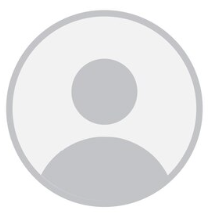
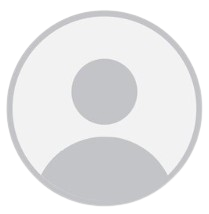
Feat: Voice Msg Play&Stop

diff --git a/src/screens/Chat/ChatRoomScreen.tsx b/src/screens/Chat/ChatRoomScreen.tsx
@@ -103,6 +103,8 @@ export default function ChatRoomScreen() {
   const [isUploading, setIsUploading] = useState(false);
   const [playingVoice, setPlayingVoice] = useState<string | null>(null); // Track which voice is playing
   const [sound, setSound] = useState<Audio.Sound | null>(null); // Current sound instance
+  const [voiceDurations, setVoiceDurations] = useState<Record<string, number>>({}); // Cache duration for each voice message
+  const [playbackPosition, setPlaybackPosition] = useState(0); // Current playback position in milliseconds
 
   // Wrap loadMessages in useCallback to prevent closure issues
   const loadMessages = useCallback(async (loadMore = false, showLoading = true) => {
@@ -210,13 +212,33 @@ export default function ChatRoomScreen() {
               }
               // For type 2 (voice), ensure full URL
               else if (messageType === 2) {
+                console.log('🎤 [Voice Parse] parsedMessage:', parsedMessage);
+                console.log('🎤 [Voice Parse] parsedMessage.message type:', typeof parsedMessage.message);
+                console.log('🎤 [Voice Parse] parsedMessage.message value:', parsedMessage.message);
+
                 if (typeof parsedMessage === 'string') {
                   voiceUrl = ensureFullImageUrl(parsedMessage);
                   messageText = '[语音消息]';
                 } else if (parsedMessage.message) {
-                  voiceUrl = ensureFullImageUrl(String(parsedMessage.message));
-                  messageText = '[语音消息]';
+                  // ✅ Check if it's an error object from backend
+                  if (typeof parsedMessage.message === 'object' && parsedMessage.message.error === true) {
+                    console.log('⚠ [Voice Parse] Backend error - Invalid file format, skipping');
+                    voiceUrl = ''; // Empty URL to skip this message
+                    messageText = '[语音上传失败]';
+                  }
+                  // Check if parsedMessage.message is an object with uri property
+                  else if (typeof parsedMessage.message === 'object' && parsedMessage.message.uri) {
+                    voiceUrl = ensureFullImageUrl(parsedMessage.message.uri);
+                    messageText = '[语音消息]';
+                  }
+                  // Normal string path
+                  else if (typeof parsedMessage.message === 'string') {
+                    voiceUrl = ensureFullImageUrl(parsedMessage.message);
+                    messageText = '[语音消息]';
+                  }
                 }
+
+                console.log('🎤 [Voice Parse] Final voiceUrl:', voiceUrl);
               }
               // For type 1 (text), extract text content
               else {
@@ -286,13 +308,13 @@ export default function ChatRoomScreen() {
     }, 10000);
 
     // Polling fallback: Check for new messages every 3 seconds (silent, no loading animation)
-    const pollingInterval = setInterval(() => {
-      loadMessages(false, false); // loadMore=false, showLoading=false
-    }, 3000);
+    // const pollingInterval = setInterval(() => {
+    //   loadMessages(false, false); // loadMore=false, showLoading=false
+    // }, 3000);
 
     return () => {
       clearInterval(connectionCheckInterval);
-      clearInterval(pollingInterval);
+      // clearInterval(pollingInterval);
     };
   }, [loadMessages]);
 
@@ -497,10 +519,120 @@ export default function ChatRoomScreen() {
     }
   };
 
+  // ✅ Voice playback functions (simplified version)
+
+  // Playback status update callback
+  const onPlaybackStatusUpdate = useCallback((status: any) => {
+    if (status.isLoaded) {
+      // Update playback position
+      setPlaybackPosition(status.positionMillis || 0);
+
+      // Get duration
+      if (status.durationMillis) {
+        const durationSeconds = Math.round(status.durationMillis / 1000);
+        // Update duration for the current playing voice
+        if (playingVoice) {
+          setVoiceDurations(prev => ({
+            ...prev,
+            [playingVoice]: durationSeconds
+          }));
+        }
+      }
+
+      // Playback finished
+      if (status.didJustFinish) {
+        setPlayingVoice(null);
+        setPlaybackPosition(0);
+        console.log('🎵 [Voice] Playback finished');
+      }
+    }
+  }, [playingVoice]);
+
+  // Play audio
+  const playAudio = useCallback(async (voiceUrl: string, messageId: string) => {
+    try {
+      console.log('🎵 [Voice] Playing audio:', voiceUrl);
+
+      // Stop current playback if any
+      if (sound) {
+        await sound.stopAsync();
+        await sound.unloadAsync();
+        setSound(null);
+        setPlayingVoice(null);
+      }
+
+      // Reset playback position
+      setPlaybackPosition(0);
+
+      // Set audio mode for playback
+      await Audio.setAudioModeAsync({
+        allowsRecordingIOS: false,
+        playsInSilentModeIOS: true,
+        staysActiveInBackground: false,
+        shouldDuckAndroid: true,
+        playThroughEarpieceAndroid: false,
+      });
+
+      // Create and play new sound
+      const { sound: newSound } = await Audio.Sound.createAsync(
+        { uri: voiceUrl },
+        { shouldPlay: true },
+        onPlaybackStatusUpdate
+      );
+
+      setSound(newSound);
+      setPlayingVoice(messageId);
+      console.log('▶ [Voice] Playing:', messageId);
+
+    } catch (error: any) {
+      console.error('❌ [Voice] Failed to play:', error);
+      Alert.alert('播放失败', '无法播放语音消息，请重试');
+      setPlayingVoice(null);
+    }
+  }, [sound, onPlaybackStatusUpdate]);
+
+  // Stop audio
+  const stopAudio = useCallback(async () => {
+    if (sound) {
+      try {
+        await sound.stopAsync();
+        await sound.unloadAsync();
+        setSound(null);
+        setPlayingVoice(null);
+        setPlaybackPosition(0);
+        console.log('⏹ [Voice] Stopped playback');
+      } catch (error) {
+        console.error('❌ [Voice] Failed to stop:', error);
+      }
+    }
+  }, [sound]);
+
+  // Helper function: Format time from milliseconds to MM:SS
+  const formatTime = useCallback((millis: number) => {
+    const totalSeconds = Math.floor(millis / 1000);
+    const minutes = Math.floor(totalSeconds / 60);
+    const seconds = totalSeconds % 60;
+    return `${minutes}:${seconds.toString().padStart(2, '0')}`;
+  }, []);
+
+  // Cleanup sound on unmount
+  useEffect(() => {
+    return () => {
+      if (sound) {
+        console.log('🧹 [Voice] Cleaning up sound on unmount');
+        sound.unloadAsync();
+      }
+    };
+  }, [sound]);
+
   const messages: DisplayMessage[] = storedMessages.map(msg => ({
     ...msg,
     sender: msg.senderId === currentUserId ? 'me' : 'other',
     senderName: msg.senderId === currentUserId ? currentUserName : (msg.name || chatName),
+    // ✅ Fix: Ensure voiceUrl is a string (handle legacy incorrect data)
+    voiceUrl: msg.voiceUrl && typeof msg.voiceUrl === 'object' && (msg.voiceUrl as any).message
+      ? String((msg.voiceUrl as any).message)
+      : msg.voiceUrl,
   }));
 
   useLayoutEffect(() => {
@@ -728,11 +860,43 @@ export default function ChatRoomScreen() {
           )}
 
           {/* Type 2: Voice Message */}
-          {item.type === 2 && (
+          {item.type === 2 && item.voiceUrl && (
             <View style={roomStyles.voiceMessageContainer}>
-              <Ionicons name="play-circle" size={24} color="#333" />
-              <Text style={roomStyles.voiceMessageText}>语音消息</Text>
+              <TouchableOpacity
+                onPress={() => {
+                  if (playingVoice === item.id) {
+                    stopAudio();
+                  } else {
+                    playAudio(item.voiceUrl!, item.id);
+                  }
+                }}
+                style={roomStyles.voicePlayButton}
+              >
+                <Ionicons
+                  name={playingVoice === item.id ? "pause-circle" : "play-circle"}
+                  size={scaleWidth(25)}
+                  color="#667eea"
+                />
+              </TouchableOpacity>
+              <View style={roomStyles.voiceInfo}>
+                <Text style={roomStyles.voiceMessageText}>
+                  {playingVoice === item.id ? '播放中...' : '语音消息'}
+                </Text>
+                {voiceDurations[item.id] && (
+                  <Text style={roomStyles.voiceDuration}>
+                    {playingVoice === item.id
+                      ? `${formatTime(playbackPosition)} / ${formatTime(voiceDurations[item.id] * 1000)}`
+                      : formatTime(voiceDurations[item.id] * 1000)
+                    }
+                  </Text>
+                )}
+              </View>
             </View>
+          )}
+
+          {/* Type 2: Failed Voice Message (no voiceUrl) */}
+          {item.type === 2 && !item.voiceUrl && (
+            <Text style={roomStyles.messageText}>{messageText || '[语音上传失败]'}</Text>
           )}
 
           {/* Type 3: Image Message */}
@@ -960,7 +1124,7 @@ const roomStyles = RNStyleSheet.create({
     width: scaleWidth(40),
     height: scaleWidth(40),
     borderRadius: borders.radius4,
-    backgroundColor: colors.background.grayLight,
+    backgroundColor: colors.background.white,
     marginHorizontal: scaleWidth(8),
     overflow: 'hidden'
   },
@@ -983,7 +1147,7 @@ const roomStyles = RNStyleSheet.create({
     color: colors.text.blackMedium
   },
   messageText: {
-    fontSize: scaleFont(16),
+    fontSize: scaleFont(14),
     color: colors.text.blackMedium,
     lineHeight: scaleHeight(22)
   },
@@ -1064,16 +1228,40 @@ const roomStyles = RNStyleSheet.create({
     color: colors.text.blackMedium,
     textAlign: 'center',
   },
-  // Voice message styles
+  // Voice message styles - Modern design
   voiceMessageContainer: {
     flexDirection: 'row',
     alignItems: 'center',
-    gap: scaleWidth(8),
-    paddingVertical: scaleHeight(4),
+    paddingVertical: scaleHeight(8),
+    paddingHorizontal: scaleWidth(4),
+    borderRadius: borders.radius16,
+    maxWidth: scaleWidth(260),
+    minWidth: scaleWidth(150),
+  },
+  voicePlayButton: {
+    width: scaleWidth(35),
+    height: scaleWidth(35),
+    borderRadius: scaleWidth(24),
+    backgroundColor: 'rgba(102, 126, 234, 0.1)',
+    justifyContent: 'center',
+    alignItems: 'center',
+    marginRight: scaleWidth(12),
+  },
+  voiceInfo: {
+    flex: 1,
+    justifyContent: 'center',
   },
   voiceMessageText: {
     fontSize: scaleFont(14),
     color: colors.text.blackMedium,
+    lineHeight: scaleHeight(22),
+    marginBottom: scaleHeight(2),
+  },
+  voiceDuration: {
+    fontSize: scaleFont(13),
+    fontWeight: '500',
+    color: '#667eea',
+    letterSpacing: 0.3,
   },
   // Image message styles
   imageGridContainer: {

diff --git a/src/screens/Chat/GroupRoomScreen.tsx b/src/screens/Chat/GroupRoomScreen.tsx
@@ -156,10 +156,10 @@ export default function GroupRoomScreen() {
                     avatar: finalAvatar,
                 });
 
-                console.log(`✅ [MemberCache] Fetched info for ${userId}:`, {
-                    name: userData.name,
-                    avatar: finalAvatar
-                });
+                // console.log(`✅ [MemberCache] Fetched info for ${userId}:`, {
+                //     name: userData.name,
+                //     avatar: finalAvatar
+                // });
             }
         } catch (error) {
             console.error(`❌ [MemberCache] Failed to fetch info for ${userId}:`, error);
@@ -391,19 +391,19 @@ export default function GroupRoomScreen() {
                 offset: currentOffset,
             });
 
-            console.log('📥 [loadMessages] API Result:', {
-                success: result.success,
-                hasData: !!result.data,
-                message: result.message,
-            });
+            // console.log('📥 [loadMessages] API Result:', {
+            //     success: result.success,
+            //     hasData: !!result.data,
+            //     message: result.message,
+            // });
 
             if (result.success && result.data) {
-                console.log('📨 [loadMessages] API Response:', {
-                    hasChatArray: !!result.data.chat,
-                    chatLength: result.data.chat?.length || 0,
-                    hasGroupArray: !!result.data.group,
-                    groupLength: result.data.group?.length || 0,
-                });
+                // console.log('📨 [loadMessages] API Response:', {
+                //     hasChatArray: !!result.data.chat,
+                //     chatLength: result.data.chat?.length || 0,
+                //     hasGroupArray: !!result.data.group,
+                //     groupLength: result.data.group?.length || 0,
+                // });
 
                 // ✅ Messages are always in result.data.chat (for both private and group chats)
                 const apiMessages = result.data.chat || [];
@@ -417,10 +417,10 @@ export default function GroupRoomScreen() {
 
                 // Check if there are more messages to load
                 if (!Array.isArray(apiMessages) || apiMessages.length === 0) {
-                    console.log('📭 [loadMessages] No more messages');
+                    // console.log('📭 [loadMessages] No more messages');
                     setHasMoreMessages(false);
                 } else {
-                    console.log(`📬 [loadMessages] Loaded ${apiMessages.length} messages`);
+                    // console.log(`📬 [loadMessages] Loaded ${apiMessages.length} messages`);
 
                     // ✅ Transform API messages to app format (same logic as ChatRoomScreen)
                     const transformedMessages = apiMessages.map((msg: any) => {
@@ -700,7 +700,7 @@ export default function GroupRoomScreen() {
                 style: 'destructive',
                 onPress: () => {
                     clearChat(chatId);
-                    setOffset(0);
+                    offsetRef.current = 0;
                     setHasMoreMessages(true);
                     Alert.alert('成功', '聊天记录已清除');
                 }
@@ -748,7 +748,7 @@ export default function GroupRoomScreen() {
                         else if (extension === 'gif') mimeType = 'image/gif';
                         else if (extension === 'webp') mimeType = 'image/webp';
 
-                        console.log(`📤 [GroupRoom File Type] ${fileName} → ${mimeType}`);
+                        // console.log(`📤 [GroupRoom File Type] ${fileName} → ${mimeType}`);
 
                         return {
                             uri: asset.uri,
@@ -757,7 +757,7 @@ export default function GroupRoomScreen() {
                         };
                     });
 
-                    console.log('📤 [GroupRoom] Sending images to group...');
+                    // console.log('📤 [GroupRoom] Sending images to group...');
                     console.log('📤 [GroupRoom] Receiver:', receiver);
 
                     const apiResult = await sendChatMessage({
@@ -1107,7 +1107,7 @@ const roomStyles = RNStyleSheet.create({
         width: 40,
         height: 40,
         borderRadius: borders.radius4,
-        backgroundColor: colors.background.grayLight,
+        backgroundColor: colors.background.white,
         marginHorizontal: 8,
         overflow: 'hidden',
     },
@@ -1191,11 +1191,6 @@ const roomStyles = RNStyleSheet.create({
         paddingVertical: 20,
         alignItems: 'center',
         justifyContent: 'center',
-    },
-    loadingText: {
-        marginTop: 8,
-        fontSize: typography.fontSize12,
-        color: colors.text.grayDark,
     },
 
     // ✅ Voice message styles (like ChatRoomScreen)
